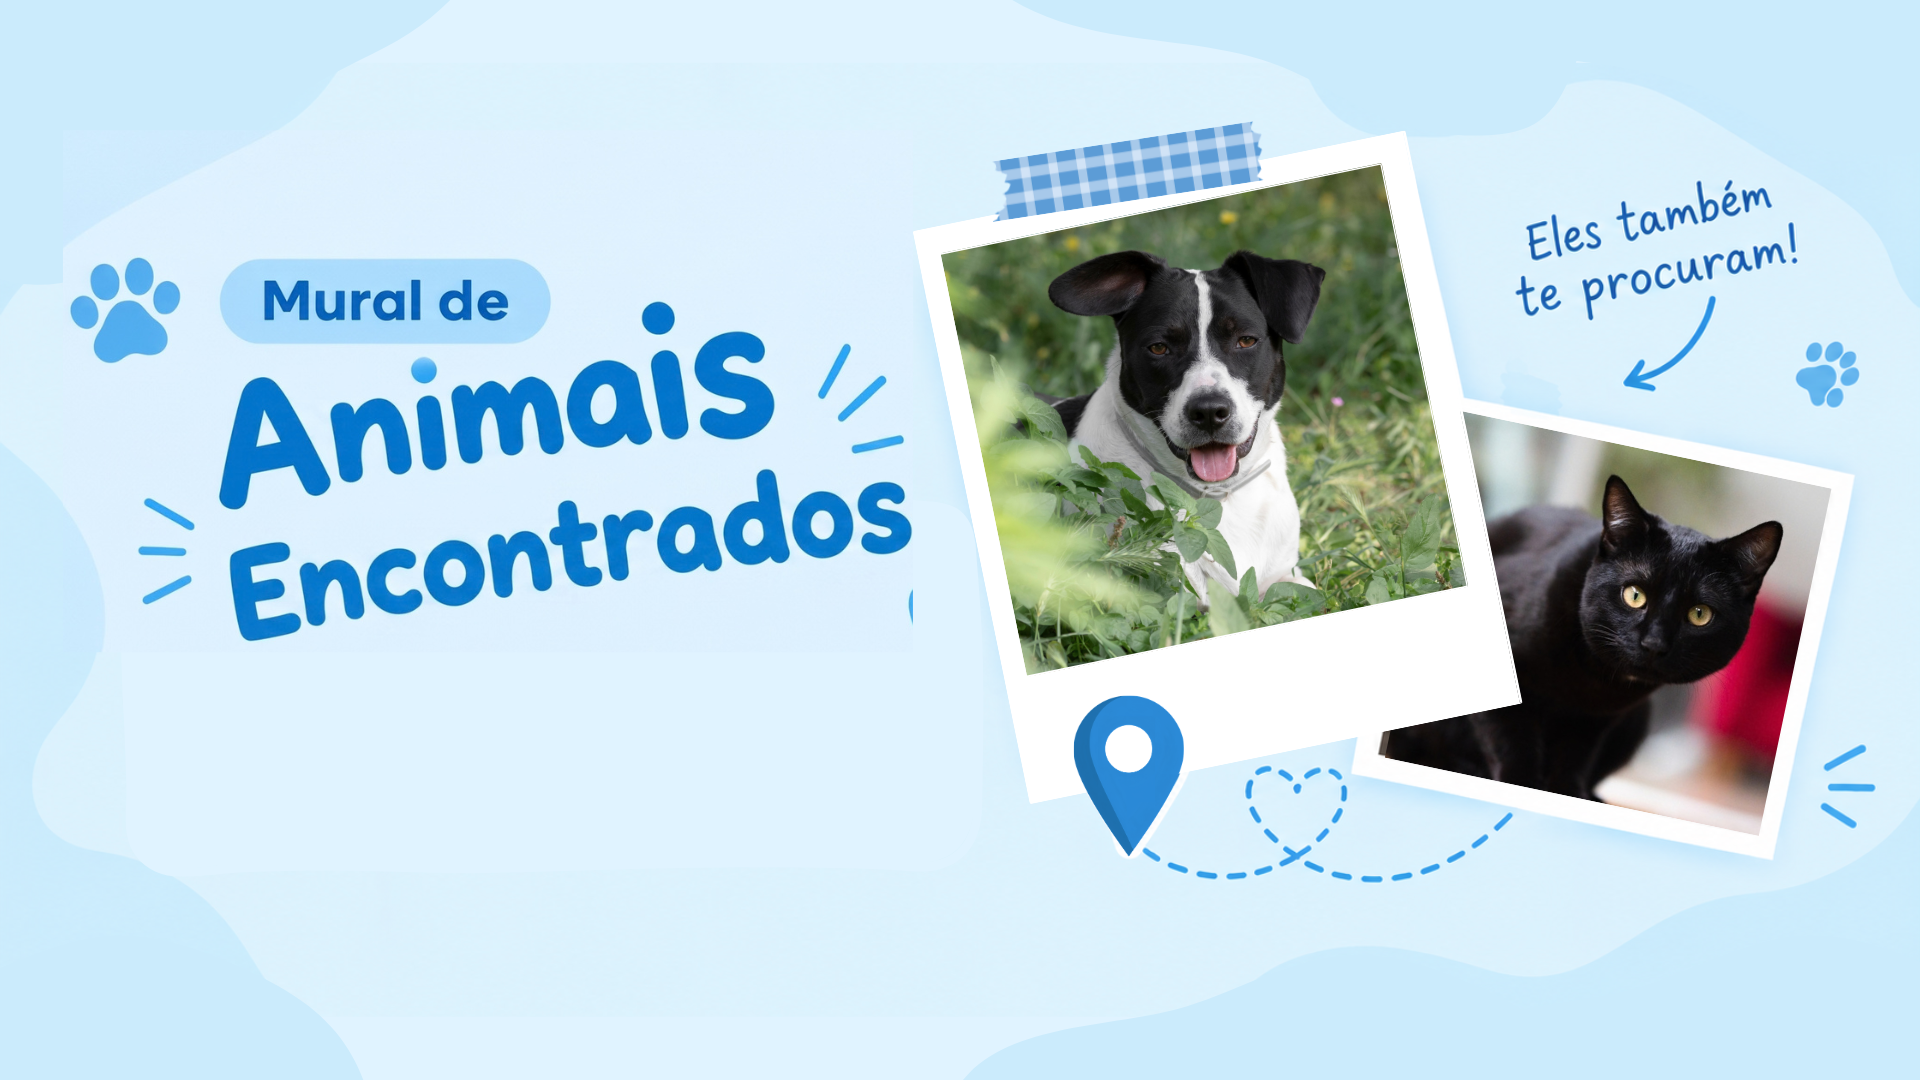
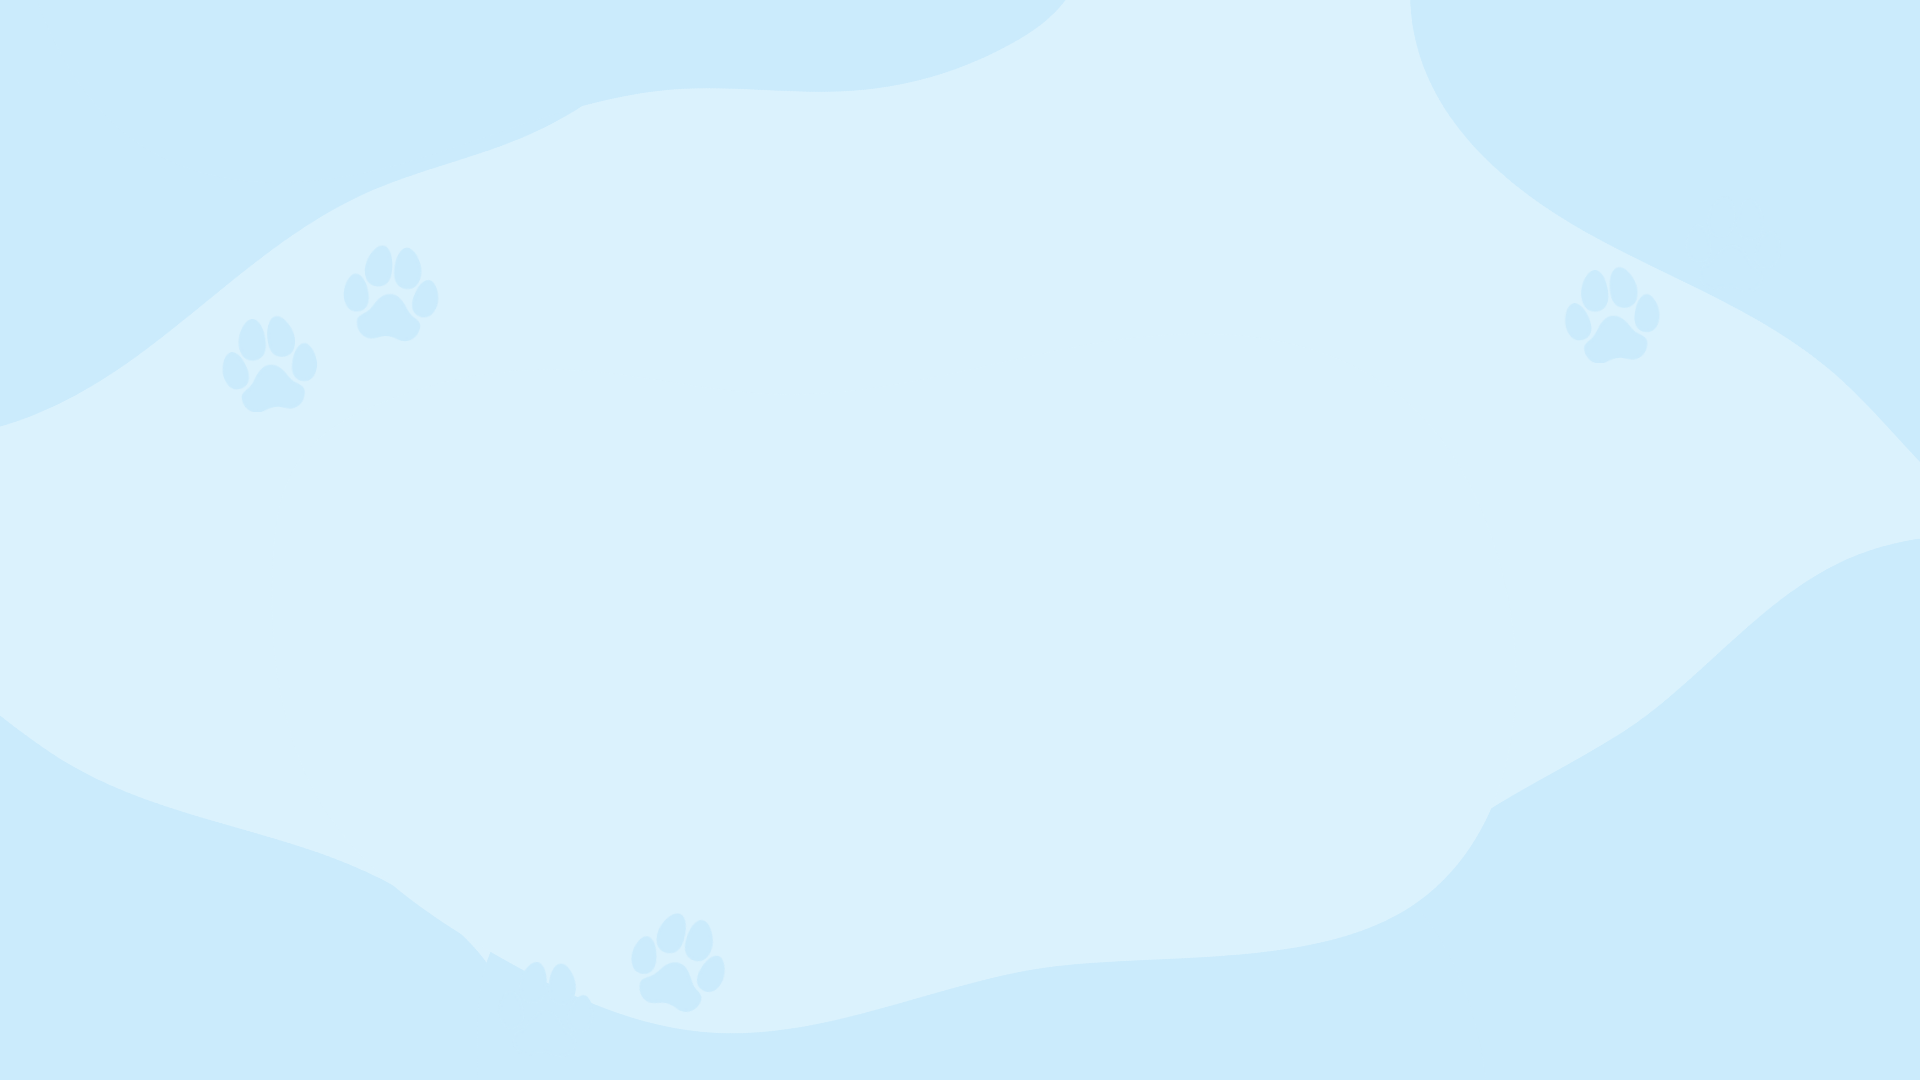
rebranding

diff --git a/AchePet/public/mural-encontrados.html b/AchePet/public/mural-encontrados.html
@@ -57,15 +57,15 @@
     <!-- BARRA DE BUSCA -->
     <section class="hero">
 
-        <div class="hero-content">
+        <div class="hero-content mural-encontrados-content">
             <div class="hero-texto">
                 <h1>Animais Encontrados</h1>
                 <p>Ajude a reconhecer os pets da sua região.</p>
             </div>
 
-            <div>
+            
             <img src="media/Polaroid-azul.png" id="polaroid">
-            </div>
+            
             
             <div class="search-box">
                 <div class="search-input">

diff --git a/AchePet/public/mural-procurados.html b/AchePet/public/mural-procurados.html
@@ -57,7 +57,7 @@
     <!-- BARRA DE BUSCA -->
     <section class="hero">
 
-        <div class="hero-content">
+        <div class="hero-content mural-procurados-content">
             <div class="hero-texto">
                 <h1>Animais Perdidos</h1>
                 <p>Ajude a encontrar os pets que estão desaparecidos na sua região.</p>

diff --git a/AchePet/public/style.css b/AchePet/public/style.css
@@ -4220,3 +4220,4 @@ html[data-tema="escuro"] .animal-detalhe-imagem img {
 .hero-texto {
     align-items: left;
 }
+
